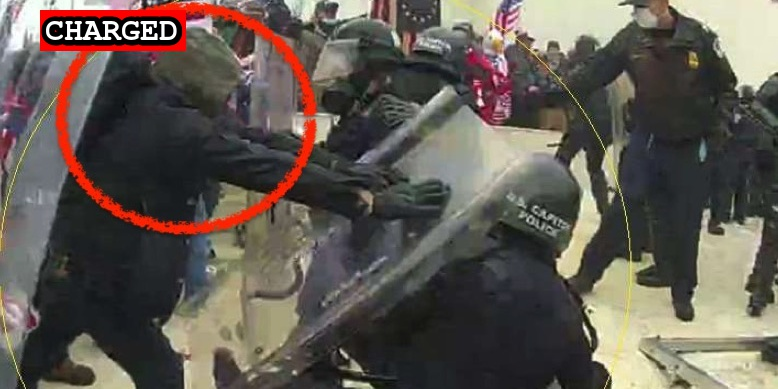
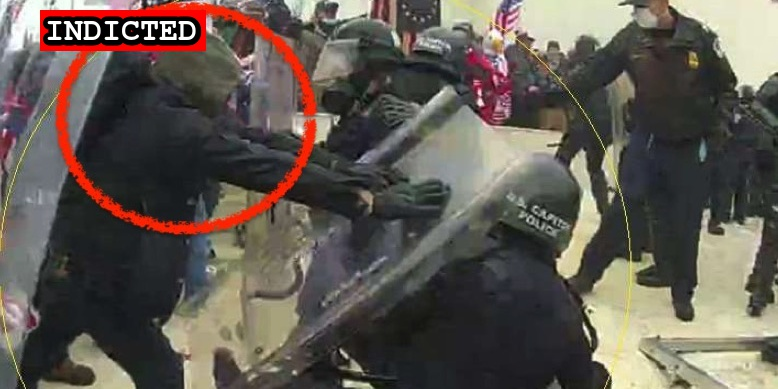
Latest import

Changed region(s): [[0.0308, 0.0308, 0.2776, 0.1542]]

diff --git a/commands/suspect-import.ts b/commands/suspect-import.ts
@@ -463,6 +463,12 @@ const linkType = (description: string, lastName?: string) => {
     case /Defendant's Motion to Suppress Statement/.test(description):
       return "Defense Motion to Dismiss or Exclude Evidence";
 
+    case /Defense Motion to Dismiss/.test(description):
+      return "Defense Motion to Dismiss";
+
+    case /Defense Motion for Discovery/.test(description):
+      return "Defense Motion for Discovery";
+
     // defense response
     case /Defense Opposition to Government's Motion to Continue/.test(description):
       return "Defense Opposition to Continue";
@@ -481,6 +487,9 @@ const linkType = (description: string, lastName?: string) => {
 
     case /Defense Response to Motion for Revocation of Order of Release/.test(description):
       return "Defense Response to Motion for Revocation of Order of Release";
+
+    case /Defense Reply to Govt Opposition to Motion to Dismiss/.test(description):
+      return "Defense Reply to Opposition to Motion to Dismiss";
 
     // press release
     case /Charged/.test(description):

diff --git a/docs/_suspects/garret-miller.md b/docs/_suspects/garret-miller.md
@@ -42,3 +42,7 @@ sentence:
 - [Ammended Complaint](https://www.justice.gov/opa/page/file/1359601/download)
 - [Indictment](https://www.justice.gov/usao-dc/case-multi-defendant/file/1410771/download)
 - [Government's Opposition to Defendent's Motion for Discovery](https://extremism.gwu.edu/sites/g/files/zaxdzs2191/f/Garret%20Miller%20Government%20Opposition%20to%20Defendants%20Motion%20for%20Discovery%20and%20for%20an%20Evidentiary%20Hearing.pdf)
+- [Detention Order](https://extremism.gwu.edu/sites/g/files/zaxdzs2191/f/Garret%20Miller%20Defense%20Reply%20to%20Govt%20Opposition%20to%20Motion%20to%20Revoke%20Detention%20Order.pdf)
+- [Defense Motion for Discovery](https://extremism.gwu.edu/sites/g/files/zaxdzs2191/f/Garret%20Miller%20Defense%20Motion%20for%20Discovery%20and%20for%20an%20Evidentiary%20Hearing.pdf)
+- [Defense Motion to Dismiss](https://extremism.gwu.edu/sites/g/files/zaxdzs2191/f/Garret%20Miller%20Government%20Opposition%20to%20Motion%20to%20Dismiss%20Count%20Three.pdf)
+- [Defense Reply to Opposition to Motion to Dismiss](https://extremism.gwu.edu/sites/g/files/zaxdzs2191/f/Garret%20Miller%20Defense%20Reply%20to%20Govt%20Opposition%20to%20Motion%20to%20Dismiss%20Count%20Three.pdf)

diff --git a/docs/_suspects/lawrence-dropkin.md b/docs/_suspects/lawrence-dropkin.md
@@ -1,0 +1,41 @@
+---
+name: Lawrence Dropkin
+lastName: Dropkin
+hashtag:
+aka:
+residence: New Jersey
+status: Charged
+date: 2021-09-13
+charged: 2021-09-13
+indicted:
+convicted:
+sentenced:
+dismissed:
+deceased:
+plea_hearing:
+sentencing:
+age:
+occupation:
+affiliations:
+jurisdiction: Federal
+image: /images/preview/lawrence-dropkin.jpg
+suspect: lawrence-dropkin.jpg
+booking:
+courtroom:
+courthouse:
+raid:
+perpwalk:
+quote:
+title: Lawrence Dropkin charged on September 13, 2021
+description: Click for latest case details. Suspects innocent until proven guilty.
+author: seditiontrack
+layout: suspect
+published: false
+caseNumber:
+videos:
+charges:
+sentence:
+---
+
+- [News Report]()
+- [Statement of Facts](https://extremism.gwu.edu/sites/g/files/zaxdzs2191/f/Lawrence%20Dropkin%20Jr%20Statement%20of%20Facts.pdf)

diff --git a/docs/_suspects/isaac-westbury.md b/docs/_suspects/isaac-westbury.md
@@ -4,10 +4,10 @@ lastName: Westbury
 hashtag:
 aka:
 residence: Minnesota
-status: Charged
+status: Indicted
 date: 2021-10-04
 charged: 2021-10-04
-indicted:
+indicted: 2021-09-29
 convicted:
 sentenced:
 dismissed:
@@ -18,8 +18,8 @@ age: 19
 occupation:
 affiliations:
 jurisdiction: Federal
-image: /images/preview/arrest.jpg
-suspect: arrest.jpg
+image: /images/preview/isaac-westbury.png
+suspect: isaac-westbury.png
 booking:
 courtroom:
 courthouse:
@@ -36,4 +36,6 @@ videos:
 charges:
 sentence:
 ---
+
 - [News Report](https://www.startribune.com/three-lindstrom-men-face-federal-charges-related-to-jan-6-u-s-capitol-riot/600103577/)
+- [Indictment](https://extremism.gwu.edu/sites/g/files/zaxdzs2191/f/Isaac%20Westbury%20et%20al%20Indictment.pdf)

diff --git a/docs/_suspects/aaron-james.md b/docs/_suspects/aaron-james.md
@@ -4,10 +4,10 @@ lastName: James
 hashtag:
 aka:
 residence: Minnesota
-status: Charged
+status: Indicted
 date: 2021-10-04
 charged: 2021-10-04
-indicted:
+indicted: 2021-09-29
 convicted:
 sentenced:
 dismissed:
@@ -18,8 +18,8 @@ age: 35
 occupation:
 affiliations:
 jurisdiction: Federal
-image: /images/preview/arrest.jpg
-suspect: arrest.jpg
+image: /images/preview/aaron-james.png
+suspect: aaron-james.png
 booking:
 courtroom:
 courthouse:
@@ -36,4 +36,6 @@ videos:
 charges:
 sentence:
 ---
+
 - [News Report](https://www.albertleatribune.com/2021/10/3-minnesota-men-charged-in-jan-6-us-capitol-riot/)
+- [Indictment](https://extremism.gwu.edu/sites/g/files/zaxdzs2191/f/Isaac%20Westbury%20et%20al%20Indictment.pdf)

diff --git a/docs/_suspects/brian-mock.md b/docs/_suspects/brian-mock.md
@@ -4,10 +4,10 @@ lastName: Mock
 hashtag: AmoralKombat
 aka:
 residence: Minnesota
-status: Charged
+status: Indicted
 date: 2021-06-10
 charged: 2021-06-10
-indicted:
+indicted: 2021-06-30
 convicted:
 sentenced:
 dismissed:
@@ -44,3 +44,4 @@ sentence:
 - [News Report](https://minnesota.cbslocal.com/2021/06/11/minneapolis-man-brian-mock-accused-of-assaulting-officer-in-jan-6-u-s-capitol-attack/)
 - [Statement of Facts](https://www.justice.gov/usao-dc/case-multi-defendant/file/1403426/download)
 - [Bodycam Evidence (Video)](https://twitter.com/alanfeuer/status/1407784550986563584)
+- [Indictment](https://extremism.gwu.edu/sites/g/files/zaxdzs2191/f/Brian%20Mock%20Indictment.pdf)

diff --git a/docs/_suspects/robert-westbury.md b/docs/_suspects/robert-westbury.md
@@ -4,10 +4,10 @@ lastName: Westbury
 hashtag:
 aka:
 residence: Minnesota
-status: Charged
+status: Indicted
 date: 2021-10-04
 charged: 2021-10-04
-indicted:
+indicted: 2021-09-29
 convicted:
 sentenced:
 dismissed:
@@ -36,4 +36,6 @@ videos:
 charges:
 sentence:
 ---
+
 - [News Report](https://minnesota.cbslocal.com/2021/10/04/capitol-attack-charges-lindstrom-minnesota/)
+- [Indictment](https://extremism.gwu.edu/sites/g/files/zaxdzs2191/f/Isaac%20Westbury%20et%20al%20Indictment.pdf)
